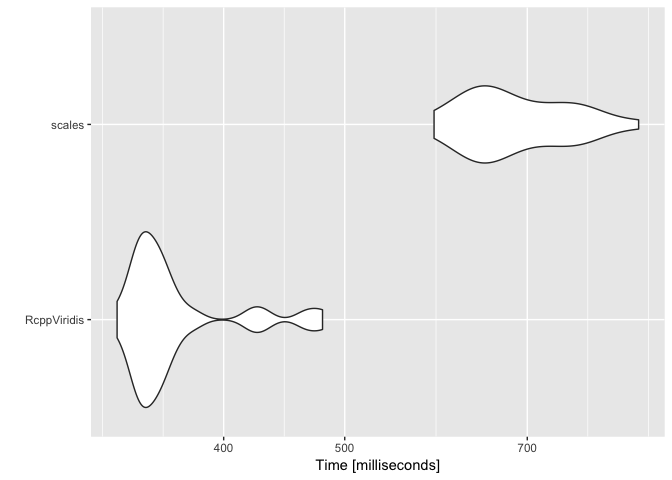
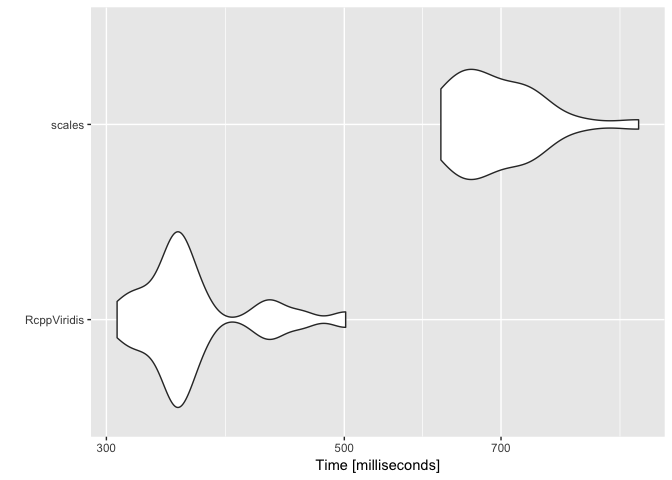
per-value alpha

diff --git a/inst/include/RcppViridis/colours/colours_hex.hpp b/inst/include/RcppViridis/colours/colours_hex.hpp
@@ -85,13 +85,14 @@ namespace colours_hex {
     //   Rcpp::stop("invalid NA Colour");
     // }
 
-    rcppviridis::palette_utils::validate_alpha( alpha );
+    int x_size = x.size();
+    Rcpp::NumericVector alpha_full( x_size );
+    rcppviridis::palette_utils::validate_alpha( alpha, alpha_full, x_size );
 
     // TODO(allow user to select start and end points of the vectors)
     Rcpp::NumericVector red(256);
     Rcpp::NumericVector green(256);
     Rcpp::NumericVector blue(256);
-    Rcpp::NumericVector alpha_full(x.size(), alpha[0]);
 
     rcppviridis::palette_utils::resolve_palette( palette, red, green, blue );
 
@@ -119,20 +120,6 @@ namespace colours_hex {
     }
     return as< Rcpp::NumericVector >( out );
   }
-
-  // Rcpp::StringVector colour_value_hex(
-  //     Rcpp::StringVector x,
-  //     Rcpp::NumericVector red,
-  //     Rcpp::NumericVector green,
-  //     Rcpp::NumericVector blue,
-  //     Rcpp::NumericVector alpha,
-  //     std::string na_colour ) {
-  //
-  //   rcppviridis::palette_utils::resolve_palette( red, green, blue, alpha );
-  //   Rcpp::NumericVector out_nv = resolve_string_vector( x );
-  //
-  //   return colour_values_to_hex( out_nv, red, green, blue, alpha, na_colour );
-  // }
 
   Rcpp::StringVector colour_value_hex (
       Rcpp::StringVector x,
@@ -162,13 +149,15 @@ namespace colours_hex {
     // if(!is_hex_colour(na_colour)) {
     //   Rcpp::stop("invalid NA Colour");
     // }
-    rcppviridis::palette_utils::validate_alpha( alpha );
+    int x_size = x.size();
+    Rcpp::NumericVector alpha_full( x_size );
+    rcppviridis::palette_utils::validate_alpha( alpha, alpha_full, x_size );
 
     // TODO(allow user to select start and end points of the vectors)
+    // TODO(allow user to set a per-value (x) alpha )
     Rcpp::NumericVector red(256);
     Rcpp::NumericVector green(256);
     Rcpp::NumericVector blue(256);
-    Rcpp::NumericVector alpha_full(x.size(), alpha[0]);
 
     rcppviridis::palette_utils::resolve_palette( palette, red, green, blue );
     Rcpp::NumericVector out_nv = resolve_string_vector( x );

diff --git a/inst/include/RcppViridis/colours/colours_rgb.hpp b/inst/include/RcppViridis/colours/colours_rgb.hpp
@@ -86,14 +86,14 @@ Rcpp::NumericMatrix colour_value_rgb(
   // if(!is_hex_colour(na_colour)) {
   //   Rcpp::stop("invalid NA Colour");
   // }
-
-  rcppviridis::palette_utils::validate_alpha( alpha );
+  int x_size = x.size();
+  Rcpp::NumericVector alpha_full( x_size );
+  rcppviridis::palette_utils::validate_alpha( alpha, alpha_full, x_size );
 
   // TODO(allow user to select start and end points of the vectors)
   Rcpp::NumericVector red(256);
   Rcpp::NumericVector green(256);
   Rcpp::NumericVector blue(256);
-  Rcpp::NumericVector alpha_full(x.size(), alpha[0]);
 
   rcppviridis::palette_utils::resolve_palette( palette, red, green, blue );
 
@@ -121,20 +121,6 @@ Rcpp::NumericVector resolve_string_vector( Rcpp::StringVector x ) {
   }
   return as< Rcpp::NumericVector >( out );
 }
-
-// Rcpp::StringVector colour_value_rgb(
-//     Rcpp::StringVector x,
-//     Rcpp::NumericVector red,
-//     Rcpp::NumericVector green,
-//     Rcpp::NumericVector blue,
-//     Rcpp::NumericVector alpha,
-//     std::string na_colour ) {
-//
-//   rcppviridis::palette_utils::resolve_palette( red, green, blue, alpha );
-//   Rcpp::NumericVector out_nv = resolve_string_vector( x );
-//
-//   return colour_values_to_rgb( out_nv, red, green, blue, alpha, na_colour );
-// }
 
 Rcpp::NumericMatrix colour_value_rgb (
     Rcpp::StringVector x,
@@ -164,13 +150,14 @@ Rcpp::NumericMatrix colour_value_rgb(
   // if(!is_hex_colour(na_colour)) {
   //   Rcpp::stop("invalid NA Colour");
   // }
-  rcppviridis::palette_utils::validate_alpha( alpha );
+  int x_size = x.size();
+  Rcpp::NumericVector alpha_full( x_size );
+  rcppviridis::palette_utils::validate_alpha( alpha, alpha_full, x_size );
 
   // TODO(allow user to select start and end points of the vectors)
   Rcpp::NumericVector red(256);
   Rcpp::NumericVector green(256);
   Rcpp::NumericVector blue(256);
-  Rcpp::NumericVector alpha_full(x.size(), alpha[0]);
 
   rcppviridis::palette_utils::resolve_palette( palette, red, green, blue );
   Rcpp::NumericVector out_nv = resolve_string_vector( x );

diff --git a/inst/include/RcppViridis/palette_utils/palette_utils.hpp b/inst/include/RcppViridis/palette_utils/palette_utils.hpp
@@ -8,10 +8,19 @@
 namespace rcppviridis {
 namespace palette_utils {
 
-  void validate_alpha( Rcpp::NumericVector alpha ) {
-    if ( alpha.size() != 1 ) {
-        Rcpp::stop("alpha must be a single value");
+  void validate_alpha( Rcpp::NumericVector& alpha, Rcpp::NumericVector& alpha_full, int x_size ) {
+
+    int alpha_size = alpha.size();
+
+    if ( !( alpha_size == 1 || alpha_size == x_size) ){
+        Rcpp::stop("alpha must either be a single value, or the same length as x");
       }
+    if ( alpha_size > 1 ) {
+      // fill  alpha_full
+      alpha_full = alpha;
+    } else {
+      alpha_full.fill( alpha[0] );
+    }
   }
 
   /*

diff --git a/README.md b/README.md
@@ -164,6 +164,16 @@ barplot(height = df$a, col = df$col, border = NA, space = 0)
 
 <img src="man/figures/README-unnamed-chunk-7-1.png" width="100%" height="200" />
 
+Or use a vector of values the same lenght as `x`
+
+``` r
+df <- data.frame(a = 10, x = 1:260)
+df$col <- colour_values(df$x, alpha = rep(seq(0,255, by = 5),5))
+barplot(height = df$a, col = df$col, border = NA, space = 0)
+```
+
+<img src="man/figures/README-unnamed-chunk-8-1.png" width="100%" height="200" />
+
 Or include the alpha value as a 4th column in the palette matrix
 
 ``` r
@@ -176,7 +186,7 @@ df$col <- colour_values(df$x, palette = m)
 barplot(height = df$a, col = df$col, border = NA, space = 0)
 ```
 
-<img src="man/figures/README-unnamed-chunk-8-1.png" width="100%" height="200" />
+<img src="man/figures/README-unnamed-chunk-9-1.png" width="100%" height="200" />
 
 -----
 
@@ -201,13 +211,13 @@ m <- microbenchmark(
 m
 # Unit: milliseconds
 #         expr      min       lq     mean   median       uq      max neval
-#  RcppViridis 307.0600 326.5560 346.4355 333.8038 367.8085 437.9861    25
-#       scales 599.7883 638.9846 687.2668 671.1691 718.0140 809.6930    25
+#  RcppViridis 306.9752 339.8894 364.0389 351.3423 368.0906 501.4680    25
+#       scales 615.1994 645.2490 697.7371 674.0110 740.0254 940.5946    25
 
 autoplot(m)
 ```
 
-<img src="man/figures/README-unnamed-chunk-9-1.png" width="100%" height="400" />
+<img src="man/figures/README-unnamed-chunk-10-1.png" width="100%" height="400" />
 
 **1 million characters (26 unique values)**
 
@@ -229,10 +239,10 @@ m <- microbenchmark(
 m
 # Unit: milliseconds
 #         expr      min       lq     mean   median       uq      max neval
-#  RcppViridis 328.6547 343.5471 365.7754 352.5738 363.4435 479.9522    25
-#       scales 589.4901 635.6974 688.5299 666.3140 734.8600 859.4748    25
+#  RcppViridis 329.9285 358.5274 394.1665 374.7618 413.5953 502.7821    25
+#       scales 597.0547 649.1323 697.4380 668.2701 758.8406 872.4136    25
 
 autoplot(m)
 ```
 
-<img src="man/figures/README-unnamed-chunk-10-1.png" width="100%" height="400" />
+<img src="man/figures/README-unnamed-chunk-11-1.png" width="100%" height="400" />
